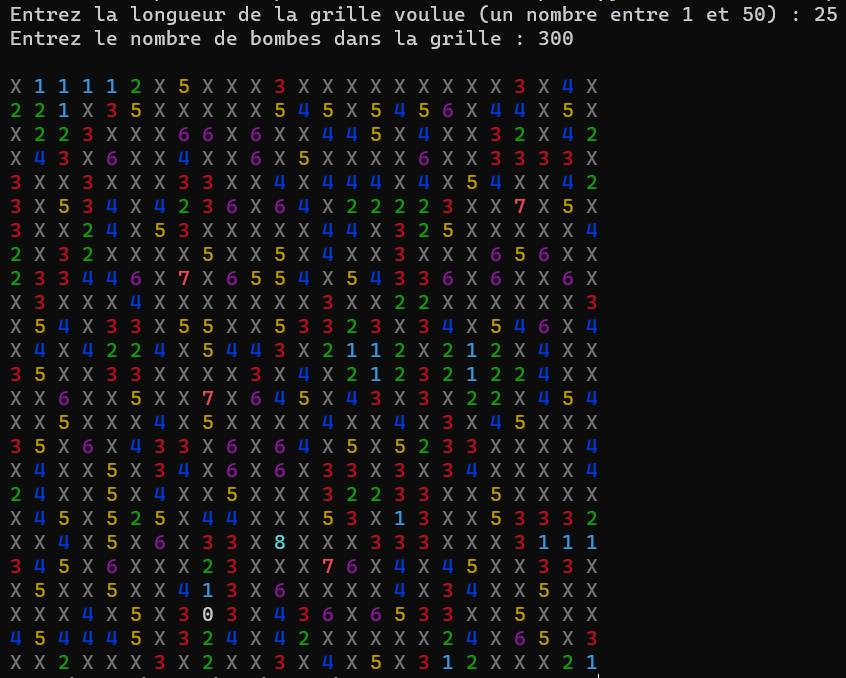
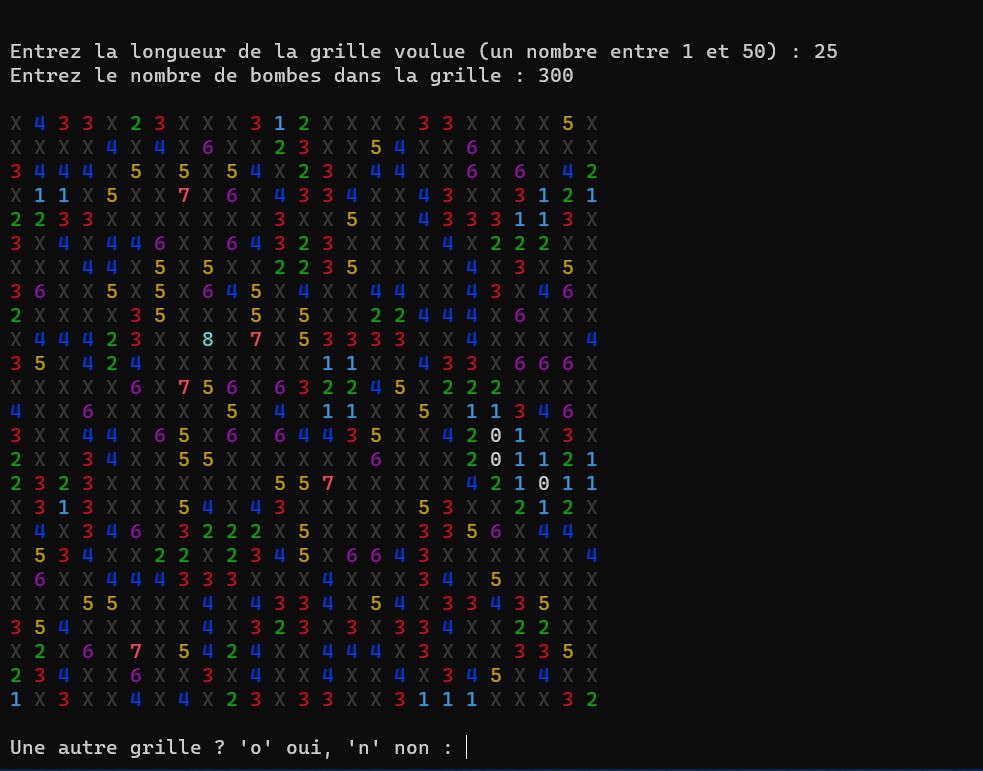
add title with color effect work, add play again option

Changed region(s): [[0.0, 0.0, 1.0, 1.0], [0.9527, 0.0, 1.0, 0.031], [0.8298, 0.0619, 0.8605, 0.0929]]

diff --git a/pics.py b/pics.py
@@ -1,0 +1,16 @@
+from colorist import Color, Effect, BrightColor, blue, red, yellow
+
+
+
+title = f'''
+            {Color.RED}(           *    (       )           (     
+            )\ )      (  `   )\ ) ( /(           )\ )  {Color.OFF}
+           {Color.RED}({Color.OFF}{Color.YELLOW}()/{Color.OFF}{Color.RED}(  (   ){Color.OFF}{Color.YELLOW}\)){Color.OFF}{Color.RED}( ({Color.OFF}{Color.YELLOW}()/{Color.OFF}{Color.RED}( ){Color.OFF}{Color.YELLOW}\()){Color.OFF}{Color.RED}(      ({Color.OFF} {Color.YELLOW}(()/{Color.OFF}{Color.RED}({Color.OFF}  
+            {Color.RED}/{Color.OFF}{Color.YELLOW}({Color.OFF}{BrightColor.YELLOW}_{BrightColor.OFF}{Color.YELLOW}){Color.OFF}{Color.OFF}{Color.RED}) )\ ({Color.OFF}{Color.YELLOW}({Color.OFF}{BrightColor.YELLOW}_){BrightColor.OFF}{Color.YELLOW}(){Color.OFF}{Color.RED}\{Color.OFF} {Color.YELLOW}/{Color.OFF}{BrightColor.YELLOW}(_{BrightColor.OFF}{Color.YELLOW})|({Color.OFF}{BrightColor.YELLOW}_){BrightColor.OFF}{Color.YELLOW}\ ){Color.OFF}{Color.RED}\{Color.OFF}     {Color.RED}){Color.OFF}{Color.YELLOW}\{Color.OFF} {BrightColor.YELLOW}/(_{BrightColor.OFF}{Color.YELLOW}){Color.OFF}{Color.RED}){Color.OFF} 
+           {Color.RED}({Color.OFF}{BrightColor.YELLOW}_))_ ((_)(_()((_|_))  _((_|(_{BrightColor.OFF}{Color.RED}) _ ({Color.OFF}{BrightColor.YELLOW}(_|_){BrightColor.OFF}{Color.RED}){Color.OFF}   
+            {Color.BLUE}|   \| __|  \/  |_ _|| \| | __| | | | _ \{Color.OFF}  
+            {BrightColor.BLUE}| |) | _|| |\/| || | | .` | _|| |_| |   /{BrightColor.OFF}  
+            {Color.CYAN}|___/|___|_|  |_|___||_|\_|___|\___/|_|_\{Color.OFF}
+                                                                
+                                                        {Color.CYAN}par \x1B[3mPierre Luciani\x1B[0m{Color.OFF}
+'''

diff --git a/mine_sweeper_grid.py b/mine_sweeper_grid.py
@@ -1,9 +1,11 @@
 import random
 from colorist import Color, Effect, BrightColor, green, yellow, red, blue, black, cyan, magenta, white
+from pics import title
 
-empty_grid = []
+print(title)
 
 def make_empty_ms_grid(n):
+	empty_grid = []
 	for y in range(n):
 		empty_grid.append([])
 		for x in range(n):
@@ -122,10 +124,17 @@ def Mine_sweeper(n,nb):
 	grid = make_empty_ms_grid(n)
 	put_grid = put_bombs(nb, grid)
 	cell_numbers(put_grid)
+	print('\n')
+	input_play_again = input("Une autre grille ? 'o' oui, 'n' non : ")
+	if input_play_again == 'o':
+		return run_game()
+	else:
+		return '\nBYE !\n'
 
 
 def run_game():
-	
+	print('\n')
+
 	while True:
 		try:
 			input_grid_size = int(input("Entrez la longueur de la grille voulue (un nombre entre 1 et 50) : "))
@@ -147,4 +156,4 @@ def run_game():
 			print("⚠ Tapez un nombre compris entre 0 et le carré de la longueur de la grille que vous avez choisi")
 
 
-run_game()
+print(run_game())
